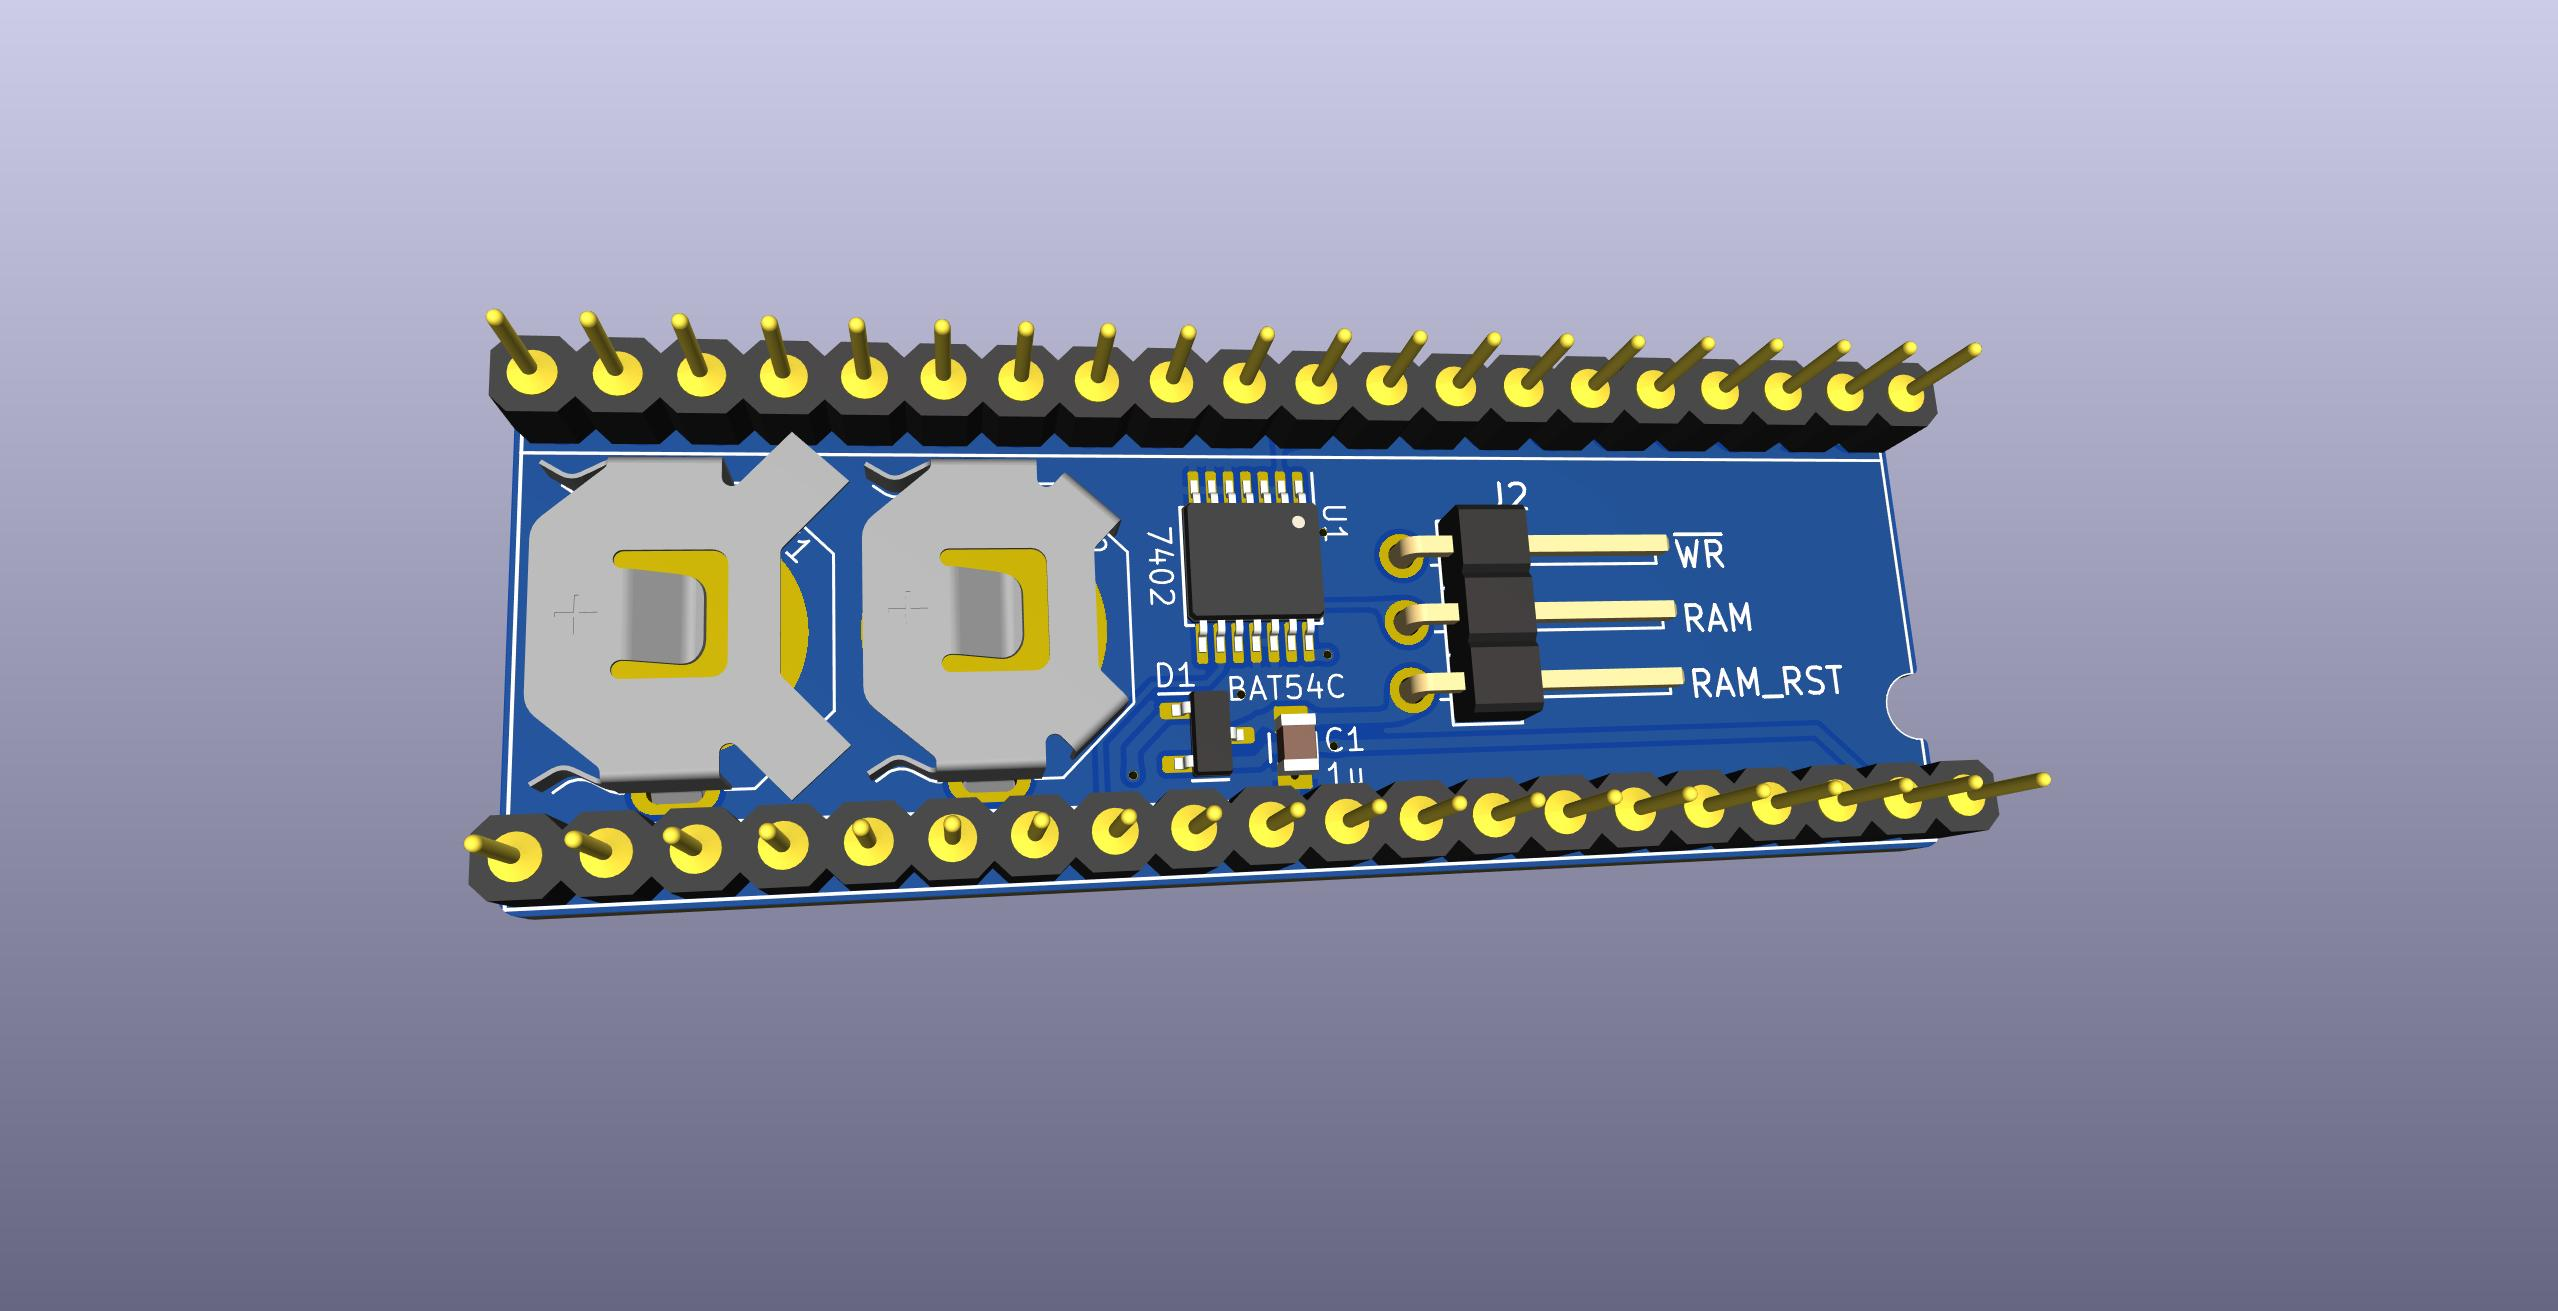
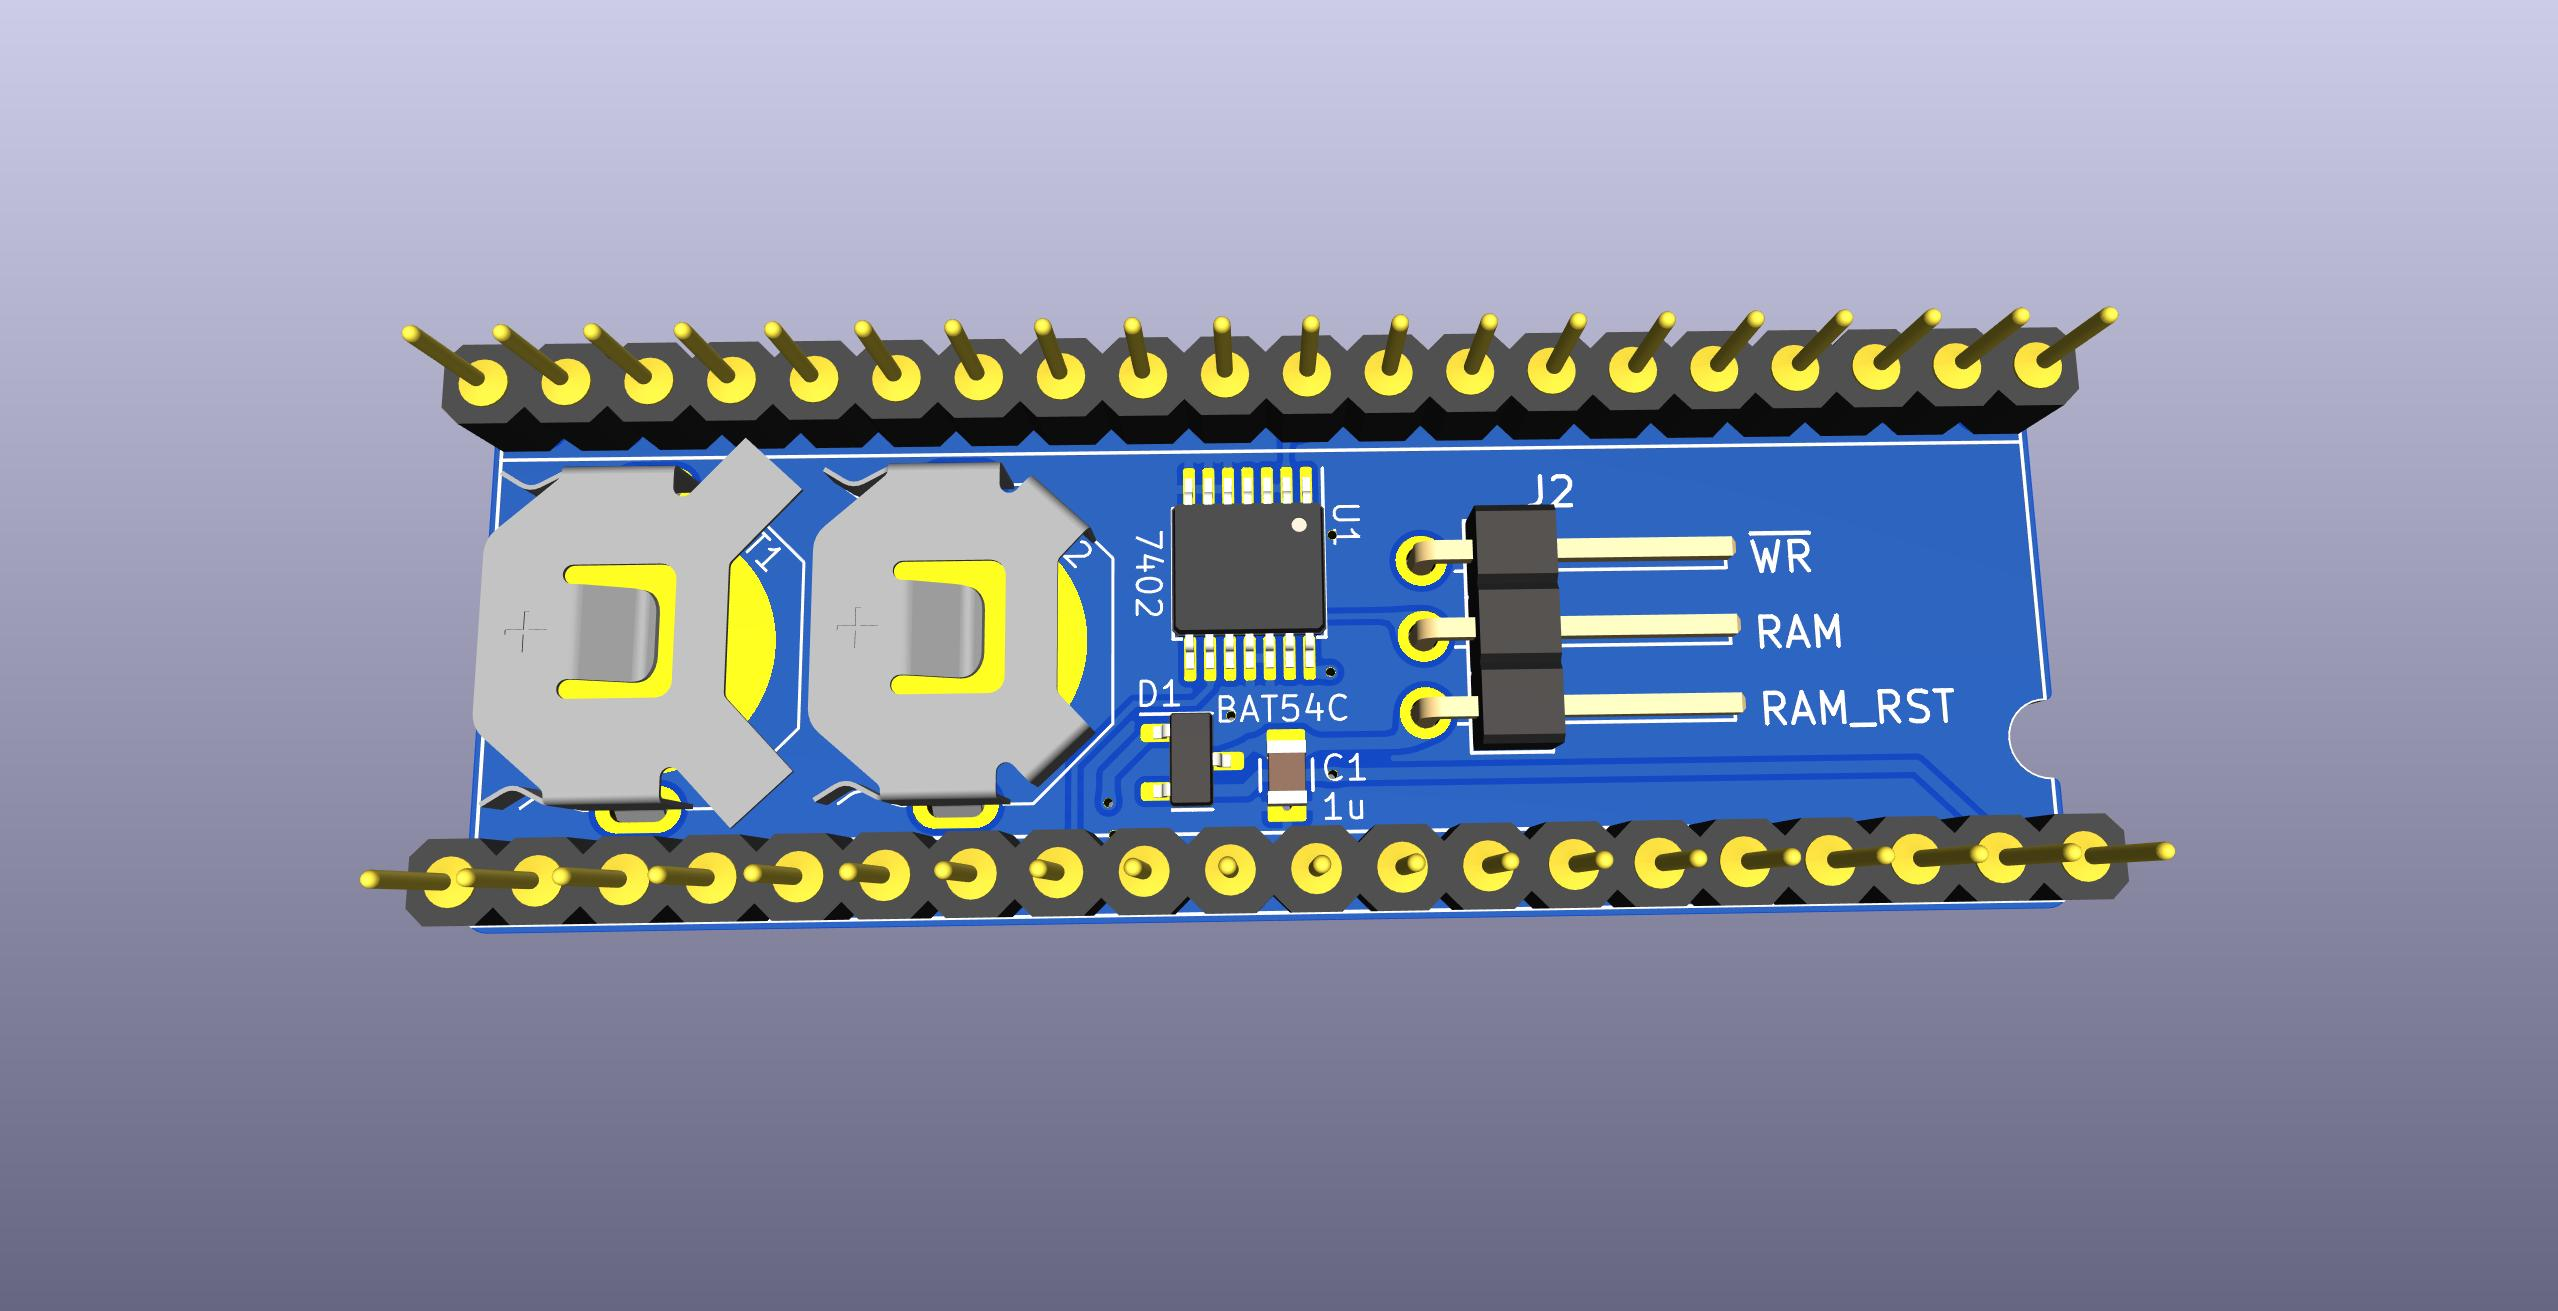
readme

Changed region(s): [[0.1235, 0.2136, 0.8647, 0.7323]]

diff --git a/README.md b/README.md
@@ -15,11 +15,14 @@ A replacement Model 100 system bus board for REXCPM with on-board batteries.
 <!-- ![](../../raw/main/PCB/out/REXCPM_UPS_f.jpg -->
 
 ![](PCB/out/REXCPM_UPS_f.jpg)
-![](PCB/out/REXCPM_UPS_bare.jpg)
 ![](PCB/out/REXCPM_UPS_b.jpg)
-![](PCB/out/REXCPM_UPS_b2.jpg)
+![](PCB/out/REXCPM_UPS_b_filled.jpg)
 ![](PCB/out/REXCPM_UPS_end_b.jpg)
+
+Single cell option. Just install one battery holder. You can use either position, they are connected in parallel. So if you prefer the battery be more recessed and protected, you cane use just the BT2 position instead of BT1.  
 ![](PCB/out/REXCPM_UPS_1_batt.jpg)
+
+Two-cell option. Bend up the rear wall tabs on one of the holders, and pass the 2nd cell through the BT1 holder.
 ![](PCB/out/REXCPM_UPS_2_batt.jpg)
 
 ## schematic & pcb
